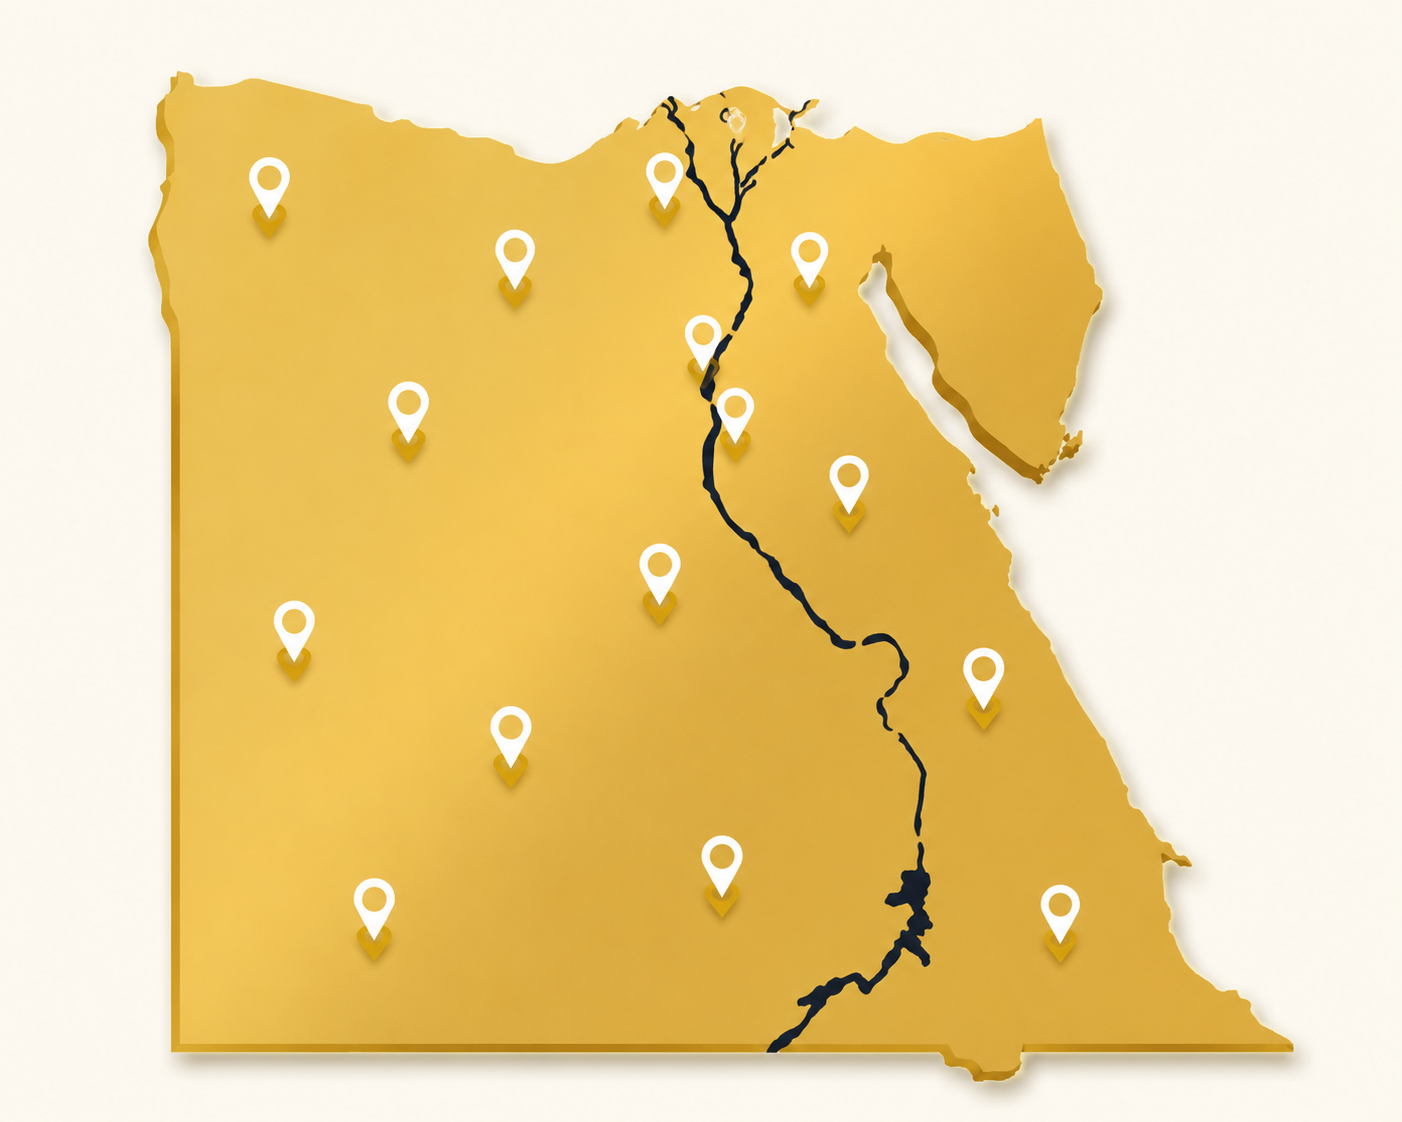
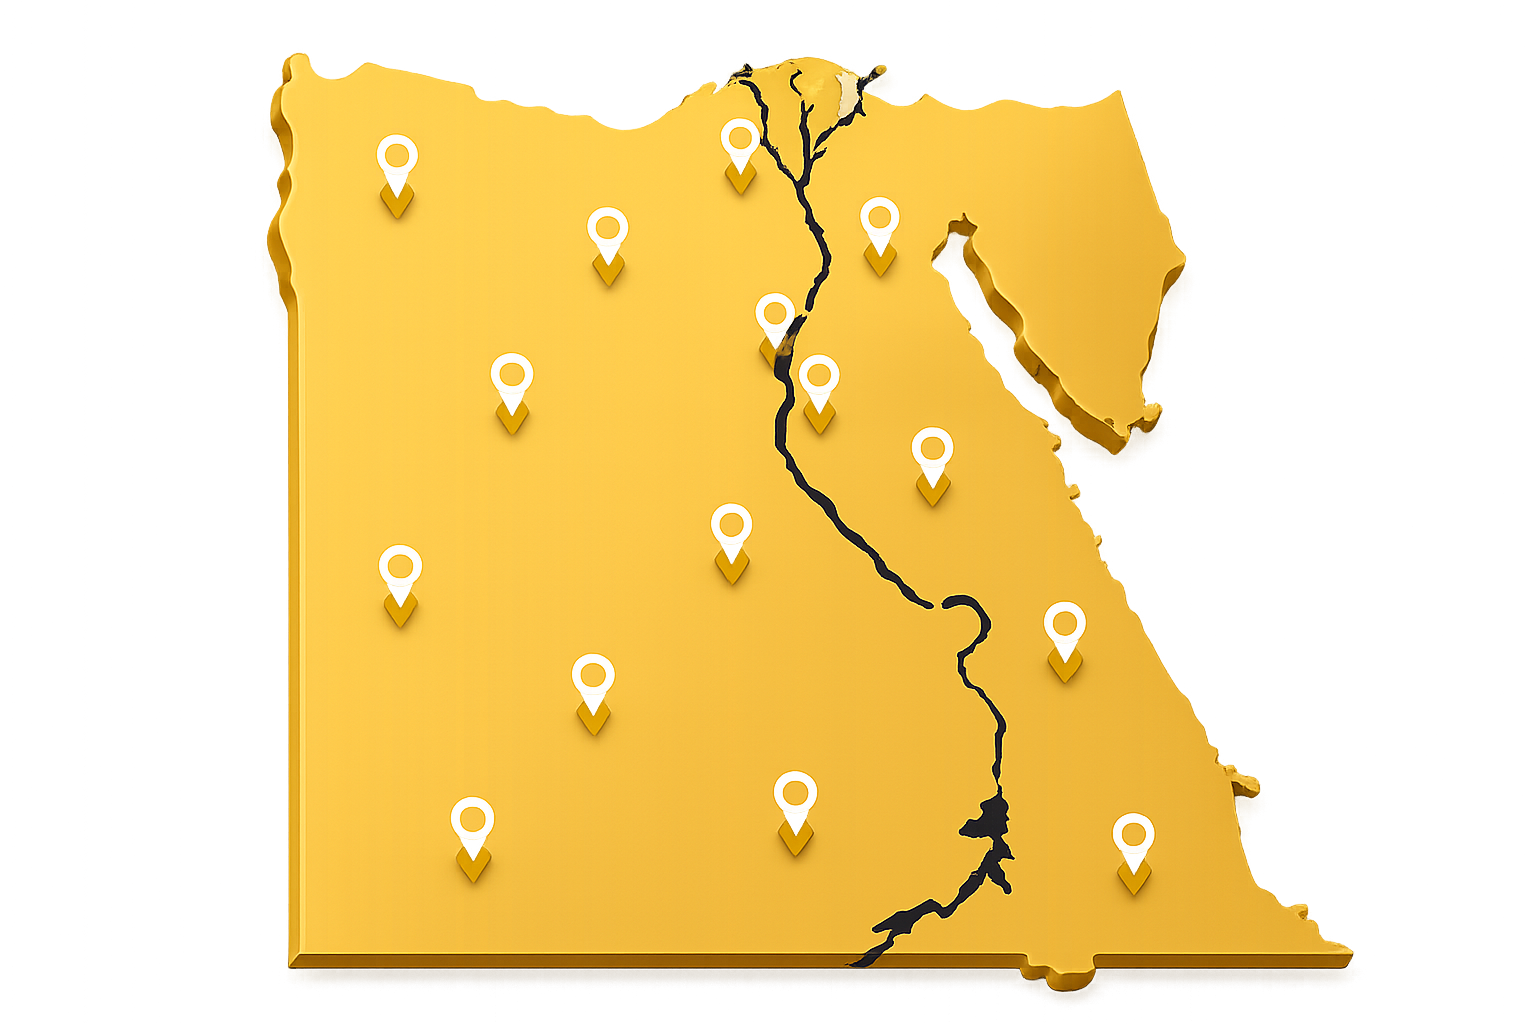
New 2

diff --git a/app/components/Products.tsx b/app/components/Products.tsx
@@ -1,9 +1,8 @@
 "use client";
-import bg from "@/public/home bg.png";
-import CountUp from "react-countup";
-import Alameed from "@/public/ameed.png";
-import egy from "@/public/egy.png";
-import cola from "@/public/cola.png";
+import Alameed from "@/public/coffe.png";
+import pu from "@/public/pu.png";
+import nut from "@/public/Nut.png";
+import cola from "@/public/vcola.png";
 import Image from "next/image";
 import {
     Camera,
@@ -16,29 +15,24 @@ export default function Footer() {
 
     const brands = [
         {
-            title: "بن العميد",
+            title: "ُEl Ameed",
             description: "The authentic taste of Arabic coffee since 1960.",
             image: Alameed,
         },
         {
             title: "Nutty",
             description: "A wide range of nuts and roasted snacks.",
-            image: "/brands/nutty.webp",
-        },
-        {
-            title: "Bakalland",
-            description: "Healthy choices for a better lifestyle.",
-            image: "/brands/bakalland.webp",
-        },
-        {
-            title: "Mc Sauce",
-            description: "Delicious sauces for every taste and every meal.",
-            image: "/brands/mcsauce.webp",
+            image: nut,
         },
         {
             title: "V7",
             description: "Refreshing drinks for every moment.",
             image: cola,
+        },
+        {
+            title: "Puvana",
+            description: "Refreshing drinks for every moment.",
+            image: pu,
         },
     ];
     return <>
@@ -61,18 +55,18 @@ export default function Footer() {
 
             <section className="relative bg-gray-100">
                 <div className="mx-auto max-w-7xl px-4">
-                    <div className="grid gap-2 sm:grid-cols-2 lg:grid-cols-5">
+                    <div className="grid gap-8 sm:grid-cols-2 lg:grid-cols-4">
                         {brands.map((brand) => (
                             <div
                                 key={brand.title}
-                                className="group overflow-hidden rounded-[24px] bg-white shadow-md transition-all duration-300 hover:-translate-y-2 hover:shadow-xl"
+                                className="group  rounded-[24px] bg-white shadow-md transition-all duration-300 hover:-translate-y-2 hover:shadow-xl"
                             >
                                 <div className="relative h-[200px]">
                                     <Image
                                         src={brand.image}
                                         alt={brand.title}
                                         fill
-                                        className="object-cover transition-transform duration-500 group-hover:scale-105"
+                                        className="object-contain transition-transform duration-500 group-hover:scale-125"
                                     />
                                 </div>
 

diff --git a/app/contact/page.tsx b/app/contact/page.tsx
@@ -165,10 +165,10 @@ export default function ContactPage() {
           <div className="mx-auto max-w-7xl overflow-hidden rounded-3xl">
 
             <iframe
-              src="https://www.google.com/maps?q=30.06056615829459,31.059902788353153&t=k&z=19&output=embed"
+              src="https://www.google.com/maps?q=30.007189762454345,31.530577157262673&t=k&z=19&output=embed"
               width="100%"
               height="450"
-              style={{ border: 0 }}
+              style={{ border: 2 }}
               allowFullScreen
               loading="lazy"
               referrerPolicy="strict-origin-when-cross-origin"

diff --git a/app/components/Footer.tsx b/app/components/Footer.tsx
@@ -51,7 +51,7 @@ export default function Footer() {
             </h3>
 
             <ul className="space-y-4 text-center text-gray-300">
-              <li>بن العميد</li>
+              <li>El Ameed</li>
               <li>Nutty</li>
               <li>Bakalland</li>
               <li>Mc Sauce</li>

diff --git a/app/page.tsx b/app/page.tsx
@@ -274,7 +274,7 @@ export default function Home() {
               <Image
                 src={egy}
                 alt="Egypt Map"
-                className="max-h-[450px] object-contain"
+                className="max-h-[450px] transition-all duration-300 hover:scale-110 hover:-translate-y-2 object-contain"
               />
             </div>
 